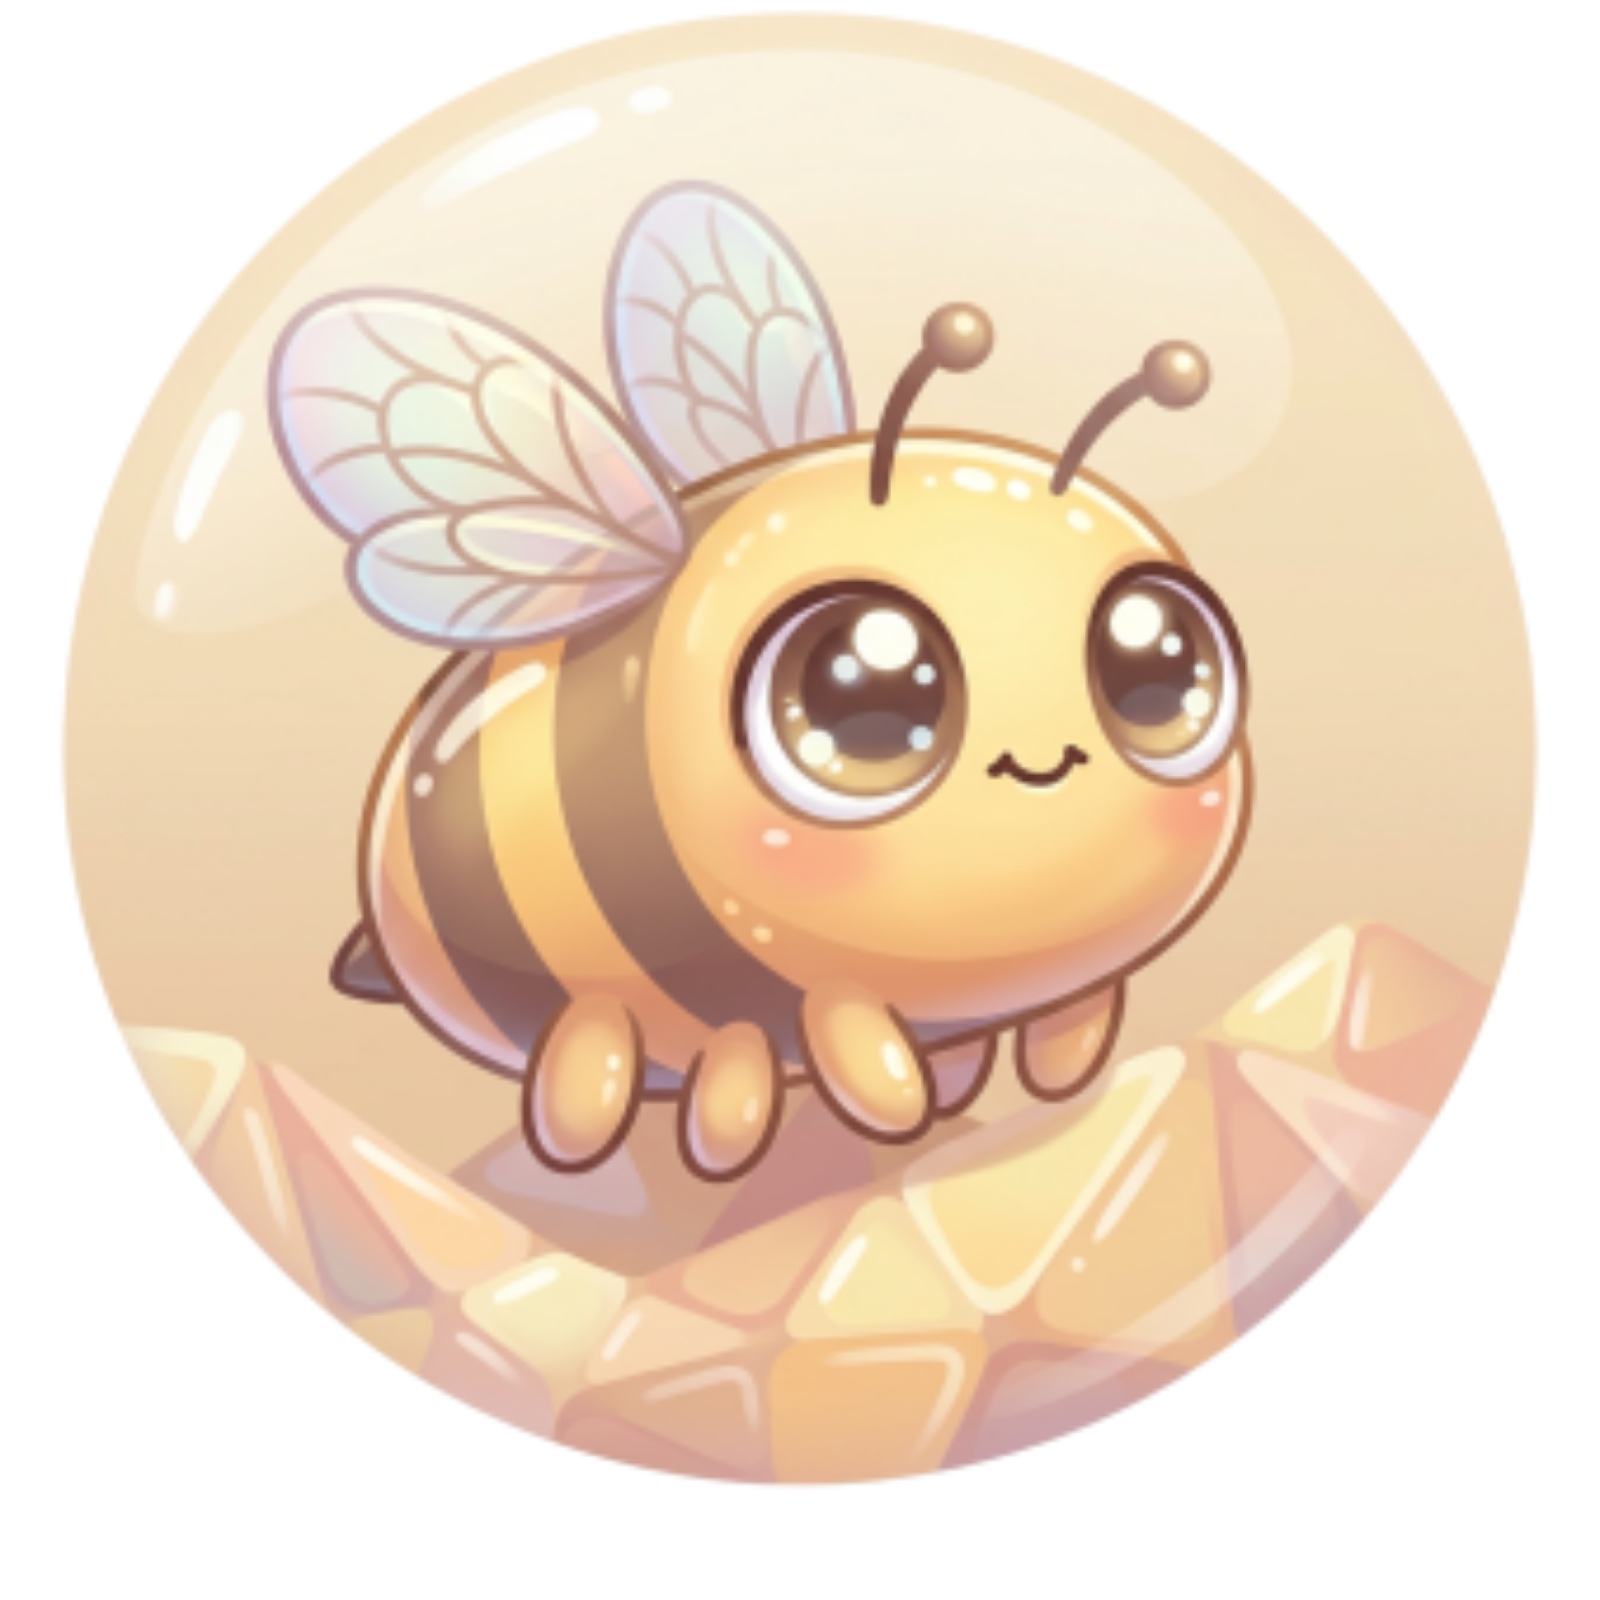
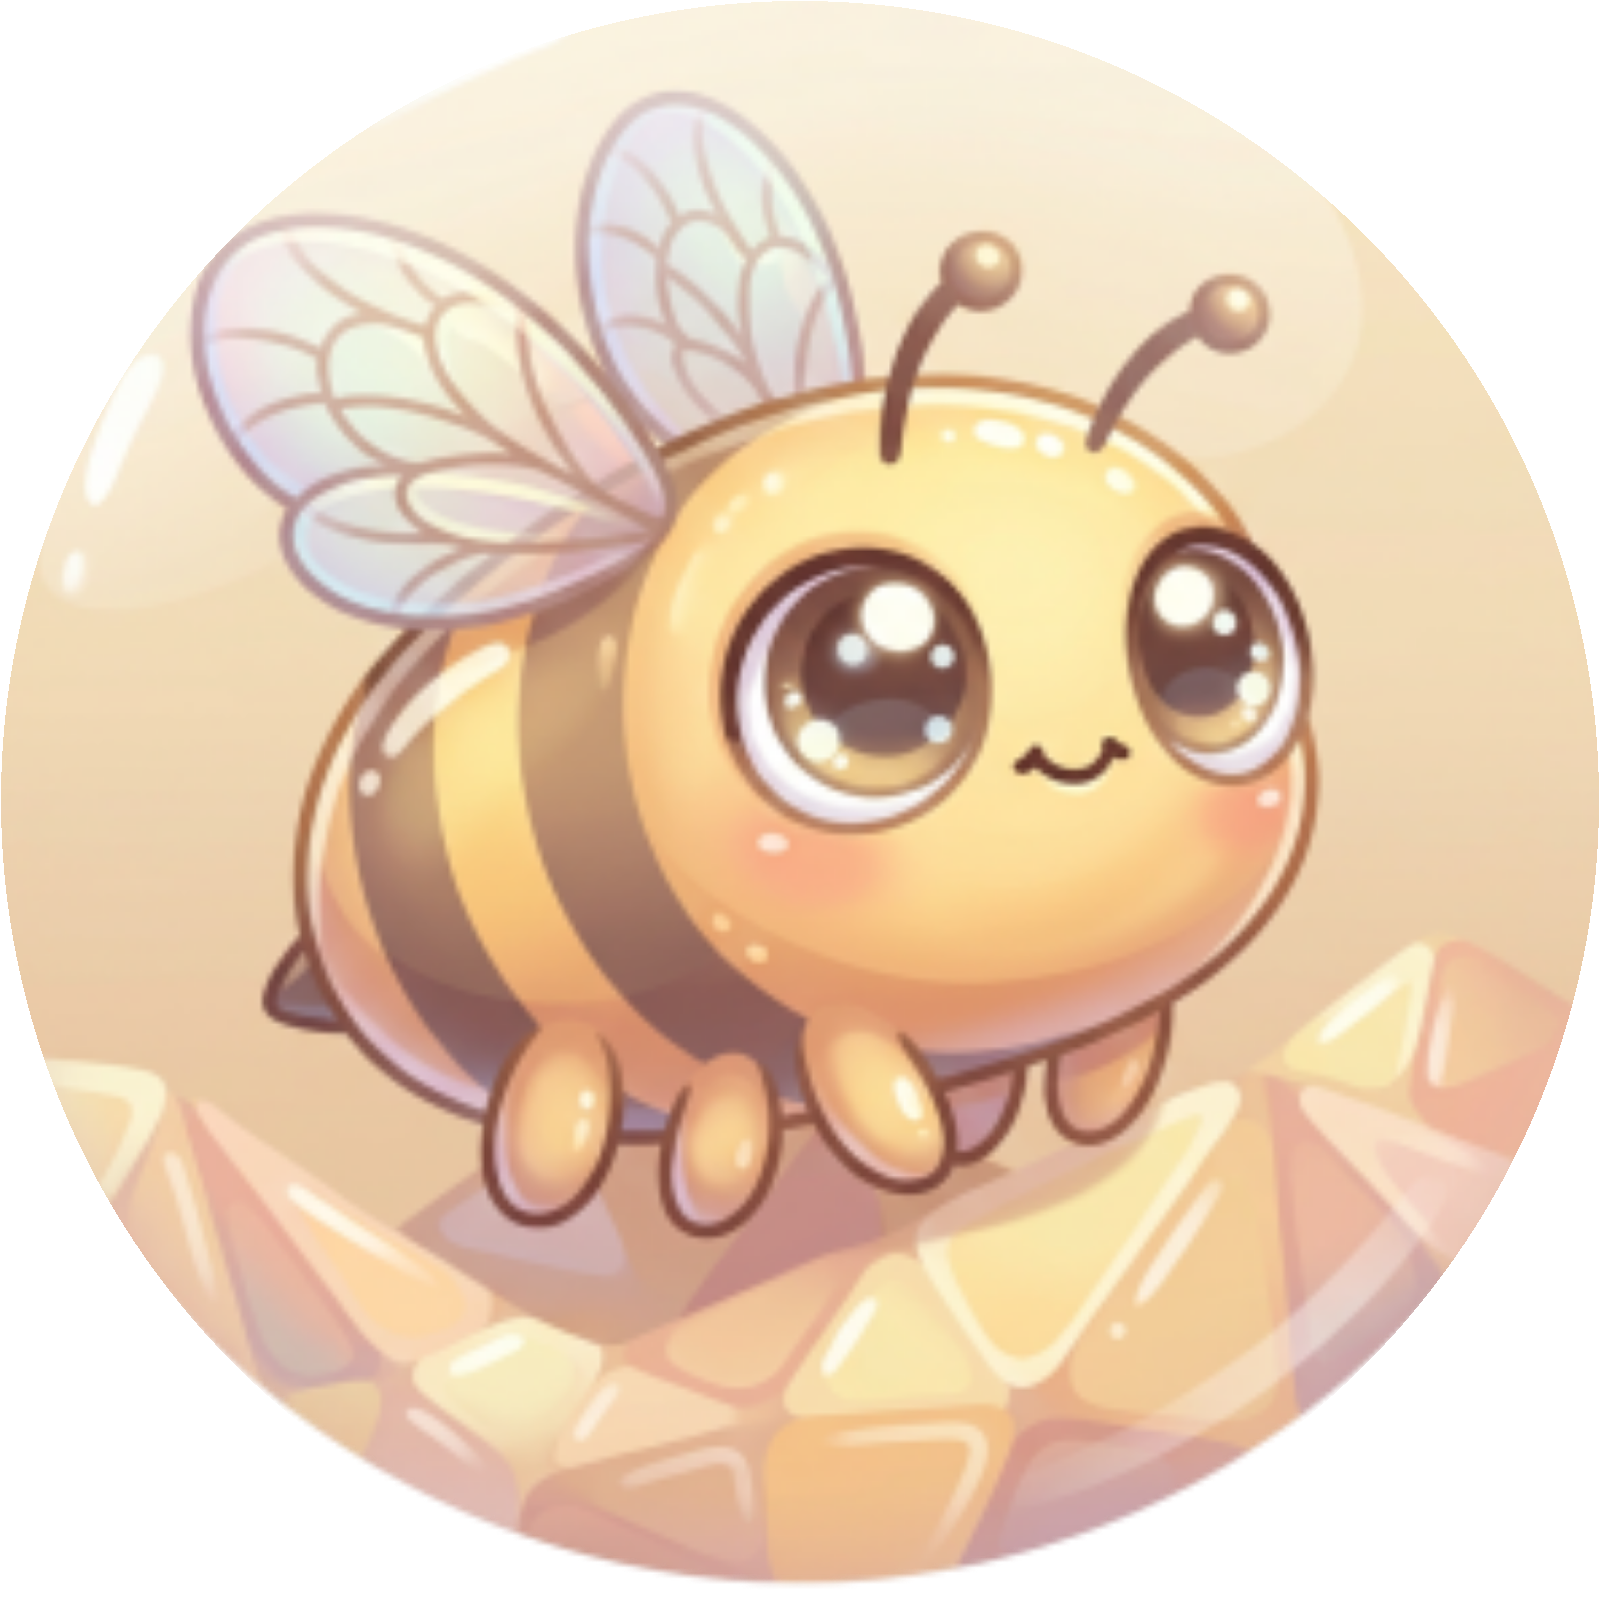
Fill companion picker photos edge-to-edge in the ring
Wrap each picker image in a circular .lp-avatar-ring container with
overflow:hidden so the lime outline sits on the photo edge, and crop
the six companion PNGs to their inner illustration so baked-in badge
rings and gaps no longer leave empty space inside the circle.

diff --git a/app/assets/tailwind/application.css b/app/assets/tailwind/application.css
@@ -3435,10 +3435,23 @@ html[data-theme="dark"] {
 }
 
 .lp-avatar-ring {
-  border-radius: 999px;
+  display: block;
+  width: 100%;
+  aspect-ratio: 1 / 1;
+  border-radius: 50%;
+  overflow: hidden;
   /* Thin lime outline flush to the photo — no void spacer gap inside the ring */
   box-shadow: 0 0 0 2px var(--lp-lime), 0 0 18px rgba(34, 197, 94, 0.4);
   animation: lp-breathe 4.2s ease-in-out infinite;
+}
+
+.lp-avatar-ring img {
+  display: block;
+  width: 100%;
+  height: 100%;
+  object-fit: cover;
+  object-position: center center;
+  border-radius: 0;
 }
 
 .lp-character-pick {
